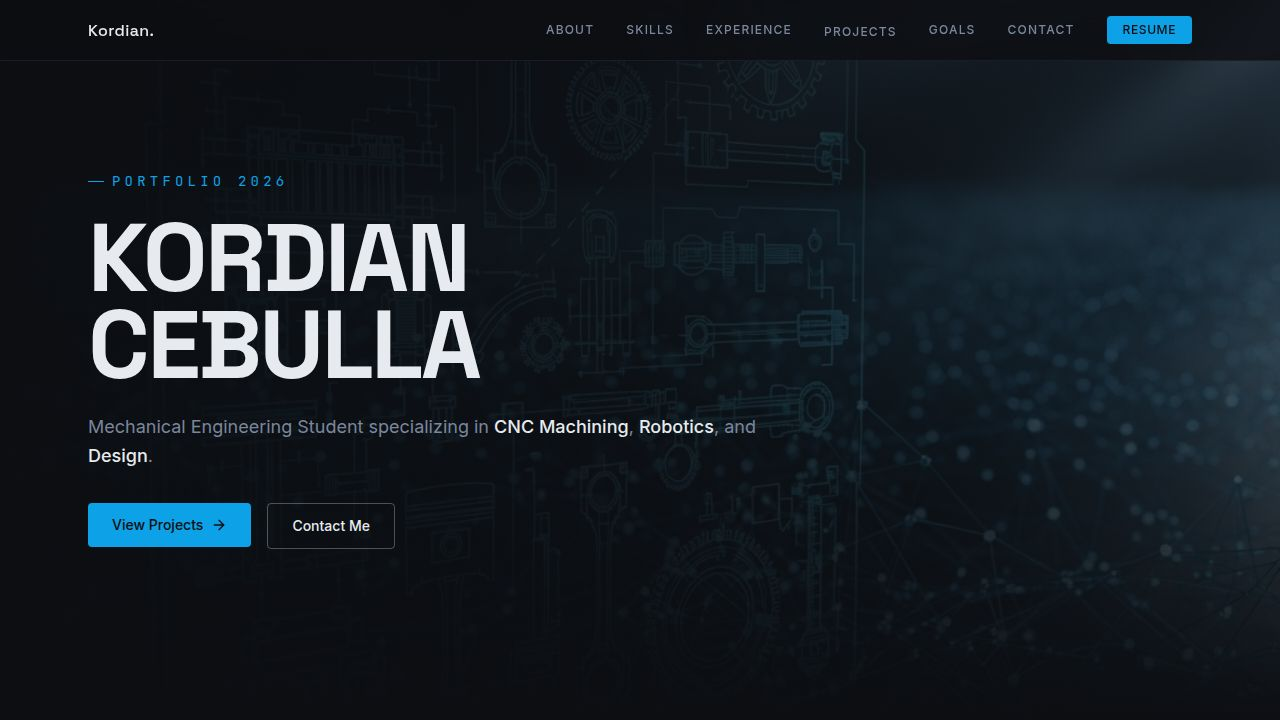
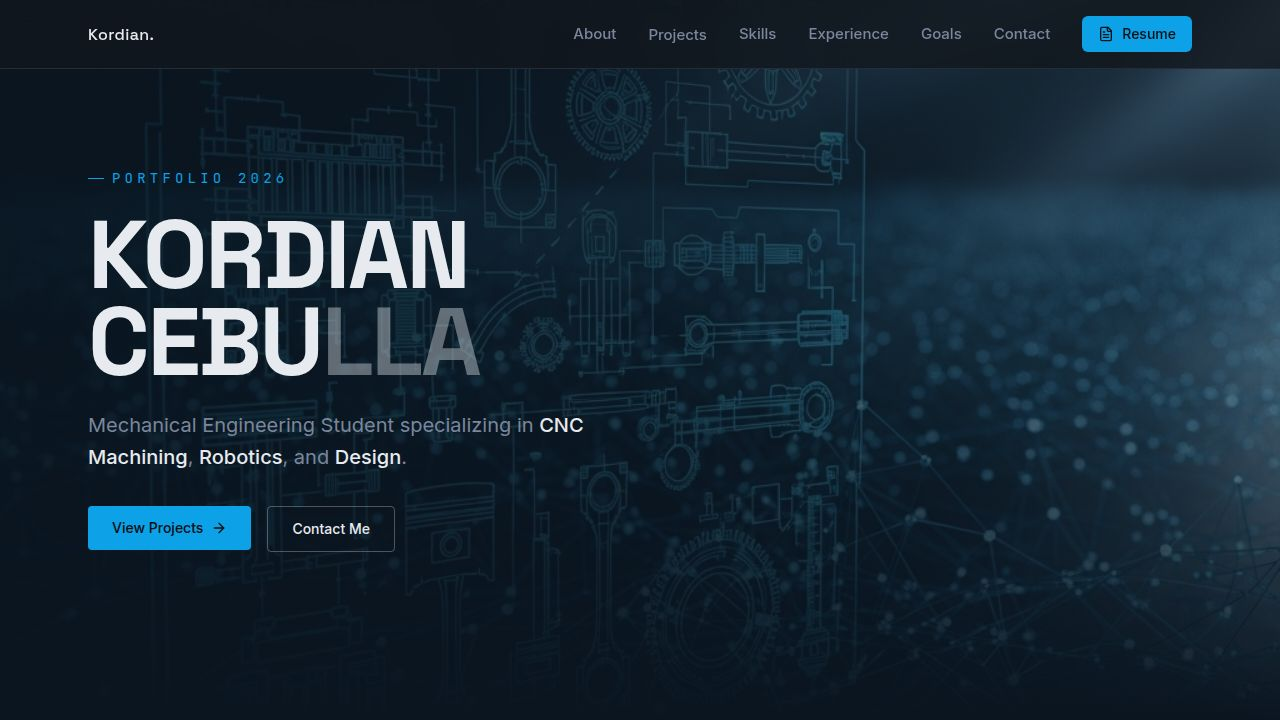
Update website to include manufacturing tag and improve hero section styling
Add "Manufacturing" tag to projects, adjust navbar branding and font sizes, and modify hero section text and layout for improved visual appeal.

Replit-Commit-Author: Agent
Replit-Commit-Session-Id: 659a8f94-bfde-4c9f-8b09-894c3c9d229b
Replit-Commit-Checkpoint-Type: full_checkpoint
Replit-Commit-Event-Id: 621112b2-dfcf-4cd2-b49f-4459280d5d76
Replit-Commit-Screenshot-Url: https://storage.googleapis.com/screenshot-production-us-central1/9815ffef-3e96-4627-8966-7e76f41fdcb6/659a8f94-bfde-4c9f-8b09-894c3c9d229b/a1bw4BU
Replit-Helium-Checkpoint-Created: true

diff --git a/client/src/components/Navbar.tsx b/client/src/components/Navbar.tsx
@@ -37,8 +37,8 @@ export function Navbar() {
       <div className="max-w-6xl mx-auto px-6 py-4">
         <div className="flex items-center justify-between">
           <Link href="/">
-            <span className="font-display font-semibold text-lg tracking-tight text-foreground hover:text-primary transition-colors cursor-pointer" data-testid="link-home">
-              KC<span className="text-primary">.</span>
+            <span className="font-display font-medium text-foreground hover:text-primary transition-colors cursor-pointer tracking-wide" data-testid="link-home">
+              Kordian.
             </span>
           </Link>
 
@@ -47,7 +47,7 @@ export function Navbar() {
               item.href === "/projects" ? (
                 <Link key={item.label} href={item.href}>
                   <span
-                    className="text-sm text-muted-foreground hover:text-foreground transition-colors cursor-pointer font-medium"
+                    className="text-[15px] text-muted-foreground hover:text-foreground transition-colors cursor-pointer font-medium"
                     data-testid={`link-${item.label.toLowerCase()}`}
                   >
                     {item.label}
@@ -57,7 +57,7 @@ export function Navbar() {
                 <button
                   key={item.label}
                   onClick={() => handleNavClick(item.href)}
-                  className="text-sm text-muted-foreground hover:text-foreground transition-colors font-medium"
+                  className="text-[15px] text-muted-foreground hover:text-foreground transition-colors font-medium"
                   data-testid={`link-${item.label.toLowerCase()}`}
                 >
                   {item.label}

diff --git a/client/src/data/projects.ts b/client/src/data/projects.ts
@@ -13,7 +13,7 @@ export const projects: Project[] = [
     id: "hobby-rocketry",
     title: "Hobby Rocketry Components",
     description: "Custom-designed fin cans and rail guide systems for high-power hobby rockets with material testing.",
-    tags: ["Mechanical"],
+    tags: ["Mechanical", "Manufacturing"],
     featured: true,
     result: "Developed reusable launch systems compatible with multiple rocket diameters.",
   },
@@ -21,7 +21,7 @@ export const projects: Project[] = [
     id: "cnc-automation-fixtures",
     title: "CNC Automation Fixtures",
     description: "3D-printed calibration fixtures for automated CNC-loading robot arm systems.",
-    tags: ["Mechanical", "Controls"],
+    tags: ["Mechanical", "Controls", "Manufacturing"],
     featured: true,
     result: "Improved system accuracy and reduced setup time by 30%.",
   },
@@ -29,7 +29,7 @@ export const projects: Project[] = [
     id: "laser-engraver-enclosure",
     title: "Laser Engraver Enclosure",
     description: "Custom enclosures and fixtures for laser engraving operations with enhanced safety features.",
-    tags: ["Mechanical"],
+    tags: ["Mechanical", "Manufacturing"],
     result: "Enhanced precision, operator safety, and workflow efficiency by 45%.",
   },
 ];

diff --git a/client/src/components/ProjectCard.tsx b/client/src/components/ProjectCard.tsx
@@ -7,7 +7,7 @@ export interface Project {
   title: string;
   description: string;
   image?: string;
-  tags: ("Mechanical" | "Electrical" | "Controls" | "Software")[];
+  tags: ("Mechanical" | "Electrical" | "Controls" | "Software" | "Manufacturing")[];
   featured?: boolean;
   result?: string;
 }
@@ -22,6 +22,7 @@ const tagColors: Record<string, string> = {
   Electrical: "bg-amber-500/10 text-amber-400 border-amber-500/30",
   Controls: "bg-emerald-500/10 text-emerald-400 border-emerald-500/30",
   Software: "bg-violet-500/10 text-violet-400 border-violet-500/30",
+  Manufacturing: "bg-rose-500/10 text-rose-400 border-rose-500/30",
 };
 
 export function ProjectCard({ project, index = 0 }: ProjectCardProps) {

diff --git a/client/src/pages/Projects.tsx b/client/src/pages/Projects.tsx
@@ -4,7 +4,7 @@ import { Navbar } from "@/components/Navbar";
 import { ProjectCard } from "@/components/ProjectCard";
 import { projects } from "@/data/projects";
 
-const allTags = ["Mechanical", "Electrical", "Controls", "Software"] as const;
+const allTags = ["Mechanical", "Electrical", "Controls", "Software", "Manufacturing"] as const;
 
 export default function Projects() {
   const [activeTags, setActiveTags] = useState<string[]>([]);
